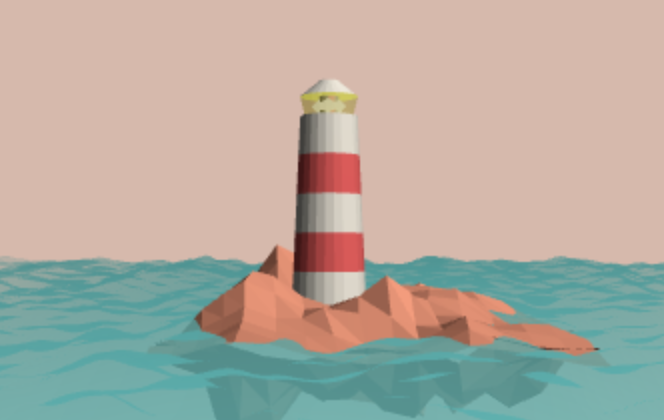
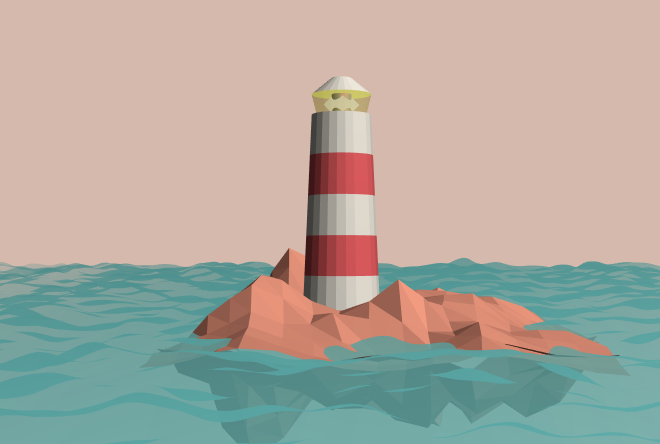
Added higher quality lighthouse image. (not larger in size)

diff --git a/_posts/2016-10-04-lighthouse.md b/_posts/2016-10-04-lighthouse.md
@@ -7,8 +7,8 @@ link: http://robindelaporte.fr/light/
 authorName: Tim Holman
 authorUrl: http://tholman.com
 authorGithub: tholman
-imgWidth: 664
-imgHeight: 420
+imgWidth: 660
+imgHeight: 444
 ---
 
 _More low poly webGL beauty._
